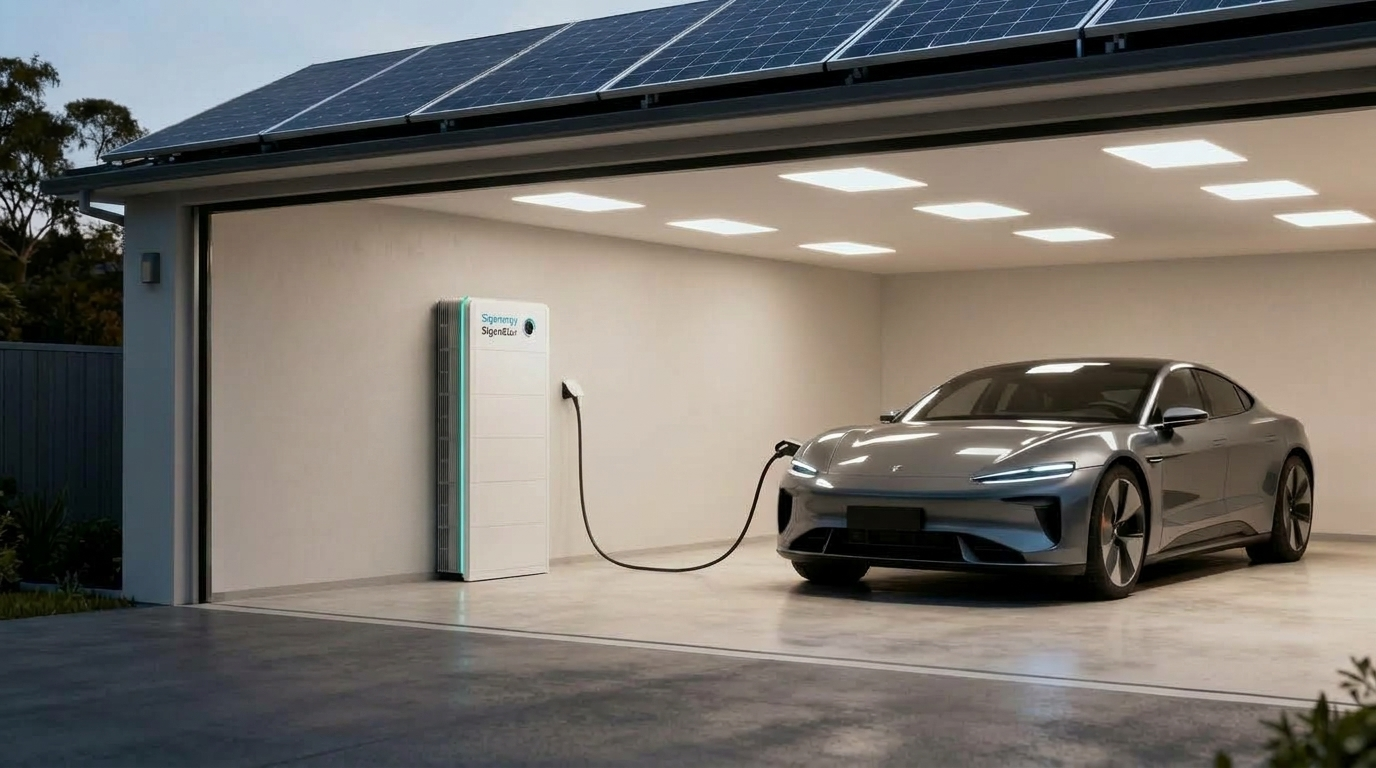
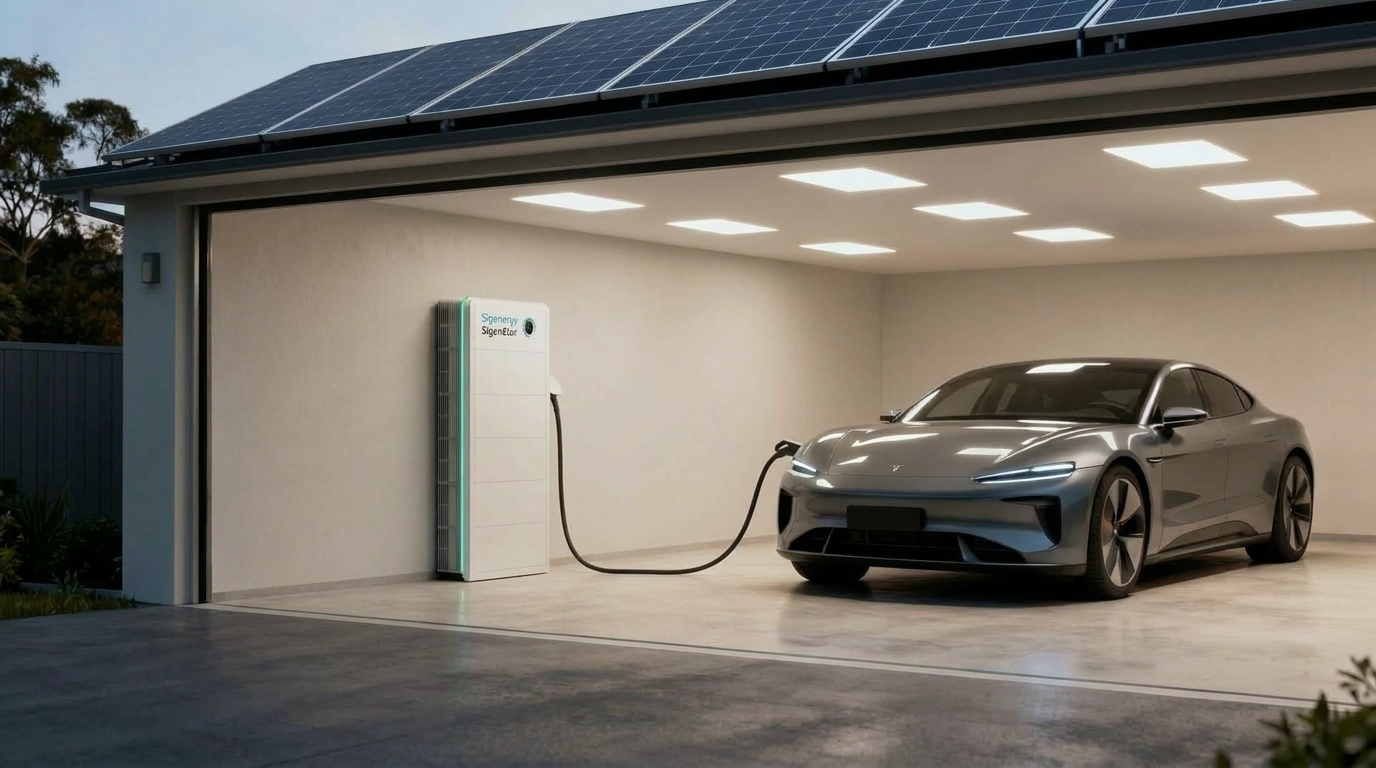
feat(battery-storage): remove separate wall holster so EV charging cable and animation originate directly from SigenStor battery casing

diff --git a/src/components/sections/RealtimeTeslaChargingHero.tsx b/src/components/sections/RealtimeTeslaChargingHero.tsx
@@ -232,19 +232,19 @@ export default function RealtimeTeslaChargingHero() {
             />
           )}
 
-          {/* 2. Direct Battery Output Port Glow (At SigenStor right side holster: 570, 400) */}
+          {/* 2. Direct Battery Output Port Glow (Attached directly to SigenStor casing: 552, 398) */}
           {isCharging && (
-            <g transform="translate(570, 400)">
+            <g transform="translate(552, 398)">
               <circle
-                r="12"
+                r="10"
                 fill="none"
                 stroke={current.primaryColor}
                 strokeWidth="2.5"
-                opacity="0.8"
+                opacity="0.85"
                 className="animate-ping"
               />
               <circle
-                r="6"
+                r="5"
                 fill={current.primaryColor}
                 filter="url(#chargerGlow)"
                 className="animate-pulse"
@@ -252,12 +252,12 @@ export default function RealtimeTeslaChargingHero() {
             </g>
           )}
 
-          {/* 3. Electric Cable Energy Conduit Flow (DIRECT from SigenStor 570,400 to Car Port 770,455) */}
+          {/* 3. Electric Cable Energy Conduit Flow (DIRECT from SigenStor Casing 552,398 to Car Port 770,455) */}
           {isCharging && (
             <>
               {/* Outer Energy Aura along Cable */}
               <path
-                d="M 570 400 C 570 500, 610 570, 660 570 C 720 570, 755 510, 770 455"
+                d="M 552 398 C 554 480, 560 565, 620 570 C 685 575, 745 520, 770 455"
                 fill="none"
                 stroke={current.primaryColor}
                 strokeWidth="8"
@@ -268,7 +268,7 @@ export default function RealtimeTeslaChargingHero() {
 
               {/* High-voltage Animated Electric Pulses (Dash flow) */}
               <path
-                d="M 570 400 C 570 500, 610 570, 660 570 C 720 570, 755 510, 770 455"
+                d="M 552 398 C 554 480, 560 565, 620 570 C 685 575, 745 520, 770 455"
                 fill="none"
                 stroke={current.primaryColor}
                 strokeWidth="4"
@@ -287,7 +287,7 @@ export default function RealtimeTeslaChargingHero() {
 
               {/* Bright Core Beam */}
               <path
-                d="M 570 400 C 570 500, 610 570, 660 570 C 720 570, 755 510, 770 455"
+                d="M 552 398 C 554 480, 560 565, 620 570 C 685 575, 745 520, 770 455"
                 fill="none"
                 stroke="#FFFFFF"
                 strokeWidth="2.5"
